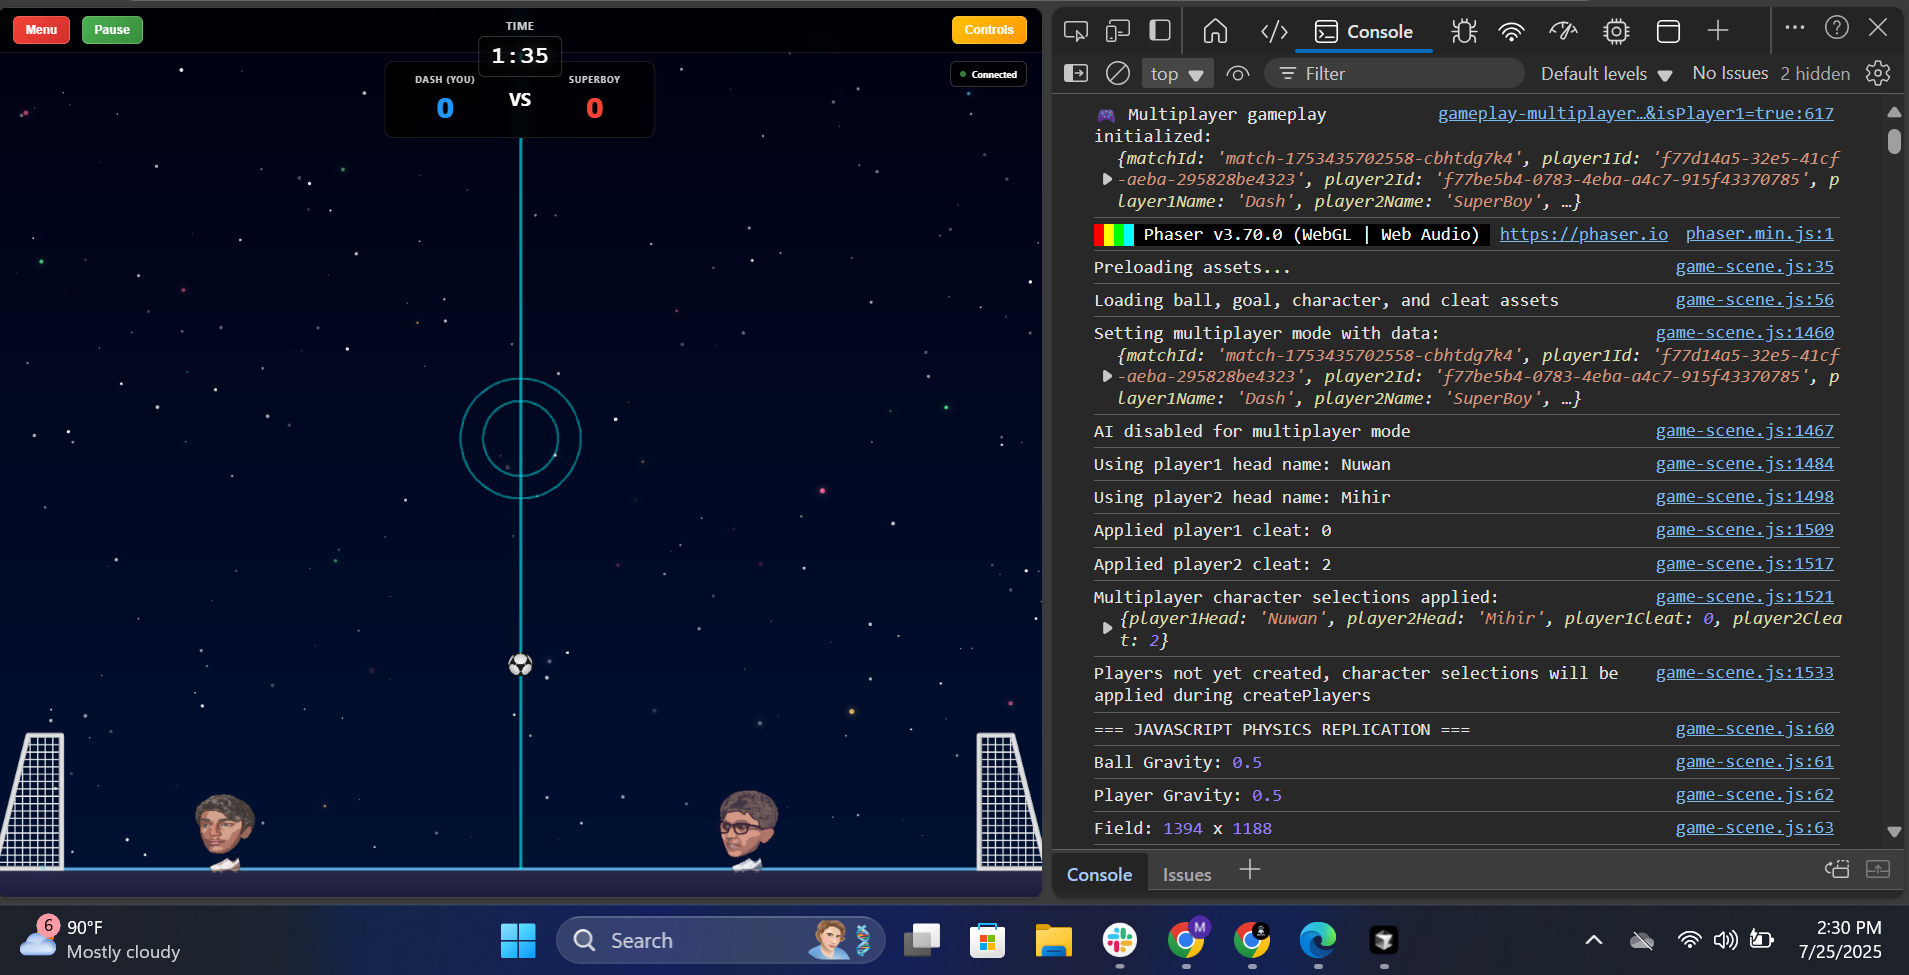
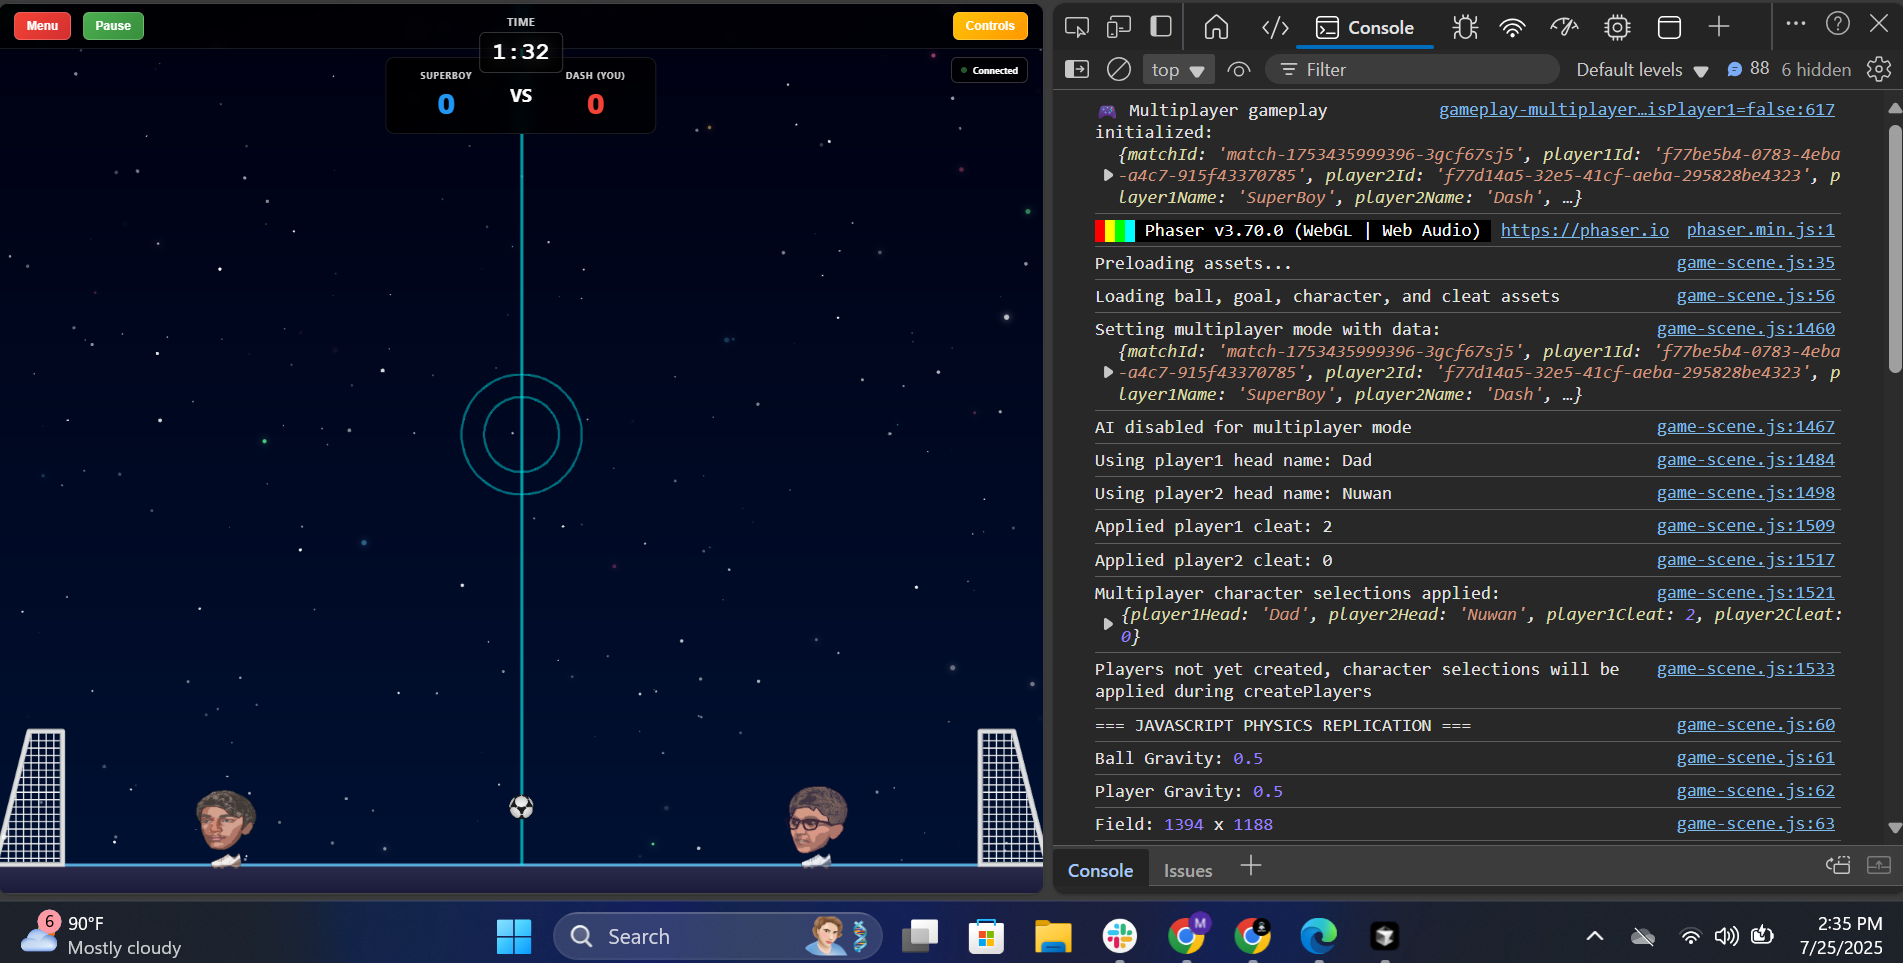
Fix critical issue: duplicate player IDs preventing character selection sync
Root cause: Both players had identical player IDs, causing all opponent
character selection events to be ignored as "own events"

- Added detection for duplicate player IDs with warning logs
- Implemented workaround to generate unique IDs when duplicates detected
- This ensures opponent character selections are properly processed
- Character heads and cleats should now sync correctly between players

🤖 Generated with [Claude Code](https://claude.ai/code)

Changed region(s): [[0.0, 0.0, 1.0, 1.0], [0.9301, 0.0, 0.9921, 0.0312]]

diff --git a/head-soccer-js/character-selection-multiplayer.html b/head-soccer-js/character-selection-multiplayer.html
@@ -650,6 +650,20 @@
                     console.log('🆔 Generated new UUID for player2:', this.player2Id);
                 }
                 
+                // CRITICAL FIX: Ensure player IDs are different (server bug workaround)
+                if (this.player1Id === this.player2Id) {
+                    console.warn('🚨 CRITICAL: Both players have the same ID! Generating unique IDs...');
+                    console.warn('Original player1Id:', this.player1Id);
+                    console.warn('Original player2Id:', this.player2Id);
+                    
+                    // Generate new unique IDs
+                    this.player1Id = Utils.generateUUID();
+                    this.player2Id = Utils.generateUUID();
+                    
+                    console.log('🔧 Fixed player1Id:', this.player1Id);
+                    console.log('🔧 Fixed player2Id:', this.player2Id);
+                }
+                
                 console.log('Multiplayer character selection initialized:', {
                     matchId: this.matchId,
                     currentPlayer: this.isPlayer1 ? this.player1Username : this.player2Username,
